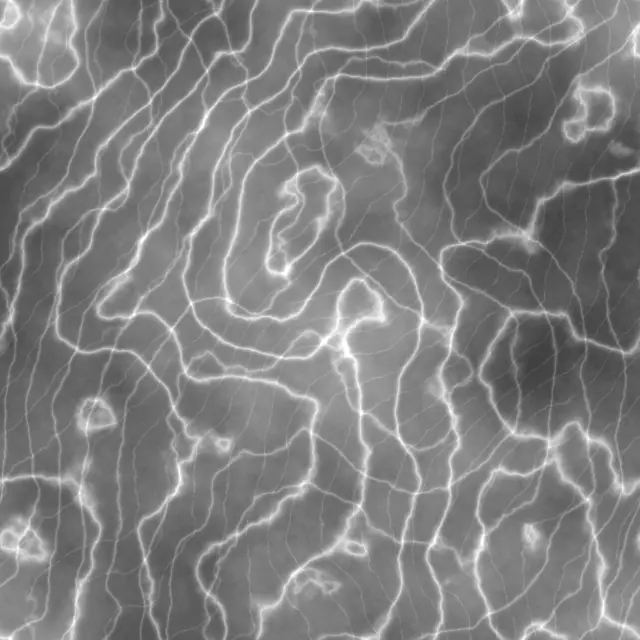
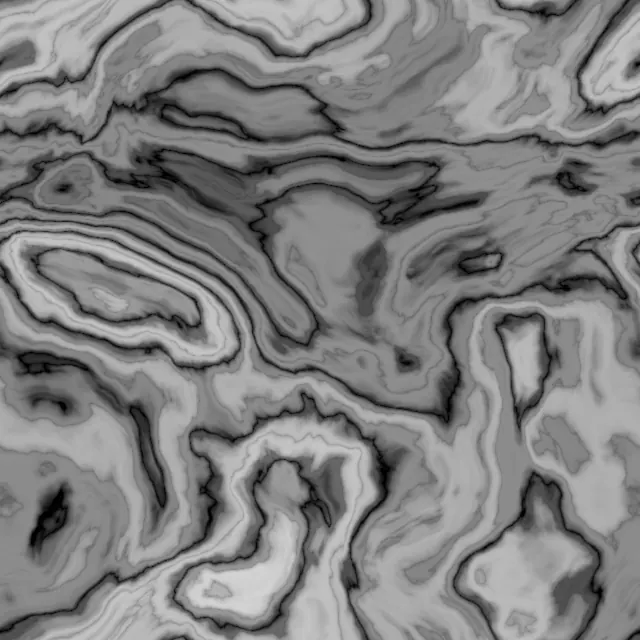
style(kcare): 남색 섹션 결을 마블링 대리석으로 교체 (연하게)
레퍼런스로 받은 마블링(물감이 접히듯 흐르는 결)은 이전 대리석과 생성
원리가 다르다. 이전 것은 띠를 살짝 일그러뜨려 만든 가는 맥이었고,
마블링은 좌표 자체를 접어야 나온다.

도메인 워핑 — 좌표를 부드러운 노이즈로 밀어서 장(field)을 접는다.
한 번이면 밋밋하고 세 번 넘으면 뭉개져 얼룩이 되므로 두 번 접는다.

접힌 장을 그대로 쓰니 중간 회색이 넓게 깔려 연기처럼 보였다. |sin| 을
1보다 작은 지수로 눌러 "대부분 밝고 영점 부근만 가늘게 어두운" 선으로
바꾸니 맥이 됐다. 처음엔 진동수를 4.5/11 로 잡아 맥이 너무 촘촘해
여백이 없었고, 2.4/6.2 로 낮춰 소용돌이가 보이게 했다.

평균을 128 로 되돌리는 처리를 넣었다. 흰 바탕이 넓은 그림을 그대로
soft-light 로 얹으면 남색 섹션이 통째로 밝아진다 — 구조는 두고 평균만 옮긴다.

이음매 검사도 고쳤다. 내부 기준값을 한 줄만 재고 있었는데 우연히 잔잔한
줄에 걸리면 가장자리가 나빠 보인다. 여러 줄의 중앙값과 비교하도록 바꿨다.
결과 4.28 대 4.47 · 6.07 대 5.30 으로 통과.

타일 800px · opacity .20 (요청대로 연하게). 마블링은 소용돌이가 크게
흘러야 돌로 읽혀서 이전 대리석(640px)보다 키웠다.

용량: marble.webp 28KB

대비 실측 (글자가 실제로 찍히는 자리만):
  데스크톱 경계 6.38:1 · 마무리 8.27:1
  모바일   경계 6.76:1 · 마무리 8.19:1   전부 AA(4.5) 이상, 미달 0건
  360~1536px 가로 넘침 0px

참고 — 받은 레퍼런스는 워터마크가 있는 유료 스톡 이미지라 파일 자체는
쓰지 않았다. 같은 결을 절차적으로 생성했다.

Claude-Session: https://claude.ai/code/session_017Rgr87D22dWCvzKhXZsY8M

diff --git a/kcare-app/styles/globals.css b/kcare-app/styles/globals.css
@@ -450,20 +450,21 @@
    과부하다 — 디코딩이 계속 돌고 파일도 400KB 씩 붙는다.
    대신 CSS 패턴으로 결만 준다. 추가 파일 0바이트, 디코딩 0.
 
-   무엇을 그리는가: 대리석 결 (public/bg/marble.webp · 23KB).
+   무엇을 그리는가: 마블링 대리석 결 (public/bg/marble.webp · 28KB).
    처음에는 점 격자를 썼는데, 규칙적인 격자라 반투명 카드 밑으로 비칠 때
    줄이 어긋난 것처럼 보였다. 불규칙한 결은 카드 밑으로 비쳐도
    "돌 위에 반투명 판을 올린" 것으로 읽혀서 그 문제가 없다.
    가죽 그레인 판도 만들어 뒀다 (public/bg/leather.webp) — url 만 바꾸면
    교체된다. 다만 결 굵기가 달라 background-size 도 같이 조정해야 한다
-   (가죽 320px/.38 · 대리석 640px/.21).
+   (가죽 320px/.38 · 대리석 800px/.20).
 
    텍스처는 흑백이고, 남색 바탕에 soft-light 로 얹어 남색의 명도만
    오르내리게 한다 — 색상은 남색 그대로다.
 
-   640px 타일을 640px 그대로 깐다 — 대리석은 맥이 길게 흘러야 돌로 읽혀서
-   가죽 그레인처럼 줄이면 잔금처럼 보인다. 타일은 상하좌우가 이어지도록
-   만들었으므로 background-size 를 바꿔도 이음매는 안 생긴다.
+   640px 타일을 800px 로 키워 깐다 — 마블링은 소용돌이가 크게 흘러야
+   돌로 읽혀서, 가죽 그레인처럼 줄이면 잔금처럼 보인다. 더 키우면 결은
+   시원해지지만 넓은 화면에서 타일 반복이 눈에 띄기 시작한다.
+   타일은 상하좌우가 이어지므로 background-size 를 바꿔도 이음매는 안 생긴다.
 
    결만 있으면 평평해 보이므로 좌상단에서 들어오는 옅은 골드 빛을 겹쳐
    깊이를 준다. 아래쪽은 살짝 눌러 글자 대비를 지킨다.                      */
@@ -475,8 +476,8 @@
   inset: 0;
   z-index: 0;
   background-image: url("/bg/marble.webp");
-  background-size: 640px 640px;
-  opacity: .21;
+  background-size: 800px 800px;
+  opacity: .20;
   mix-blend-mode: soft-light;
 }
 .sec-navy::after {

diff --git a/kcare-app/scripts/gen-marble.py b/kcare-app/scripts/gen-marble.py
@@ -1,30 +1,35 @@
 #!/usr/bin/env python3
-"""남색 섹션 배경용 대리석 텍스처 생성기 → public/bg/marble.webp
+"""남색 섹션 배경용 마블링 대리석 텍스처 생성기 → public/bg/marble.webp
 
     pip install numpy pillow
     python3 scripts/gen-marble.py          # kcare-app 디렉터리에서
 
 만드는 것: 상하좌우가 이어지는(= 이음매 없이 반복되는) 640px 흑백 타일.
-CSS 는 이것을 640px 그대로 깔고 남색 바탕에 soft-light 로 얹는다
+CSS 는 이것을 800px 로 키워 깔고 남색 바탕에 soft-light 로 얹는다
 (styles/globals.css 의 .sec-navy 참고).
 
-대리석 맥을 만드는 원리: 띠(sin)를 매끄러운 노이즈로 일그러뜨린 뒤
-영점 부근만 남기면 구불구불한 선이 된다. 두 가지가 핵심이다.
+핵심은 도메인 워핑이다. 좌표 자체를 부드러운 노이즈로 밀어서 장(field)을
+접으면, 물감을 물 위에서 휘저은 것 같은 소용돌이가 나온다. 한 번 접으면
+밋밋하고 세 번 넘어가면 뭉개져서 얼룩이 되므로 두 번 접는다.
 
-  · 왜곡 노이즈가 매끄러워야 한다 (fbm 의 beta). beta 가 낮아 고주파가
-    남으면 맥 윤곽이 잘게 떨려 서리처럼 부슬부슬해진다. 반대로 너무 높이면
-    맥이 나란해져 등고선처럼 보인다. 4.2~4.6 이 흐르는 구간이다.
-  · 왜곡 진폭(amp)이 크면 띠가 잘게 부서져 화강암 얼룩이 된다. 3~4 라디안
-    안팎으로 누르고, 대신 띠 개수(kx·ky)를 늘려 맥을 촘촘하게 한다.
+접힌 장을 그대로 쓰면 중간 회색이 넓게 깔려 연기처럼 보인다. 그래서
+|sin| 을 1보다 작은 지수로 눌러 "대부분 밝고 영점 부근만 가늘게 어두운"
+선을 만든다 — 이게 맥이다. 지수를 키우면 맥이 굵어지고, 진동수(k)를
+키우면 촘촘해진다. k 가 크면 여백이 사라져 답답해진다.
+
+마지막에 평균을 128 로 되돌리는 이유: 흰 바탕이 넓은 그림을 그대로
+soft-light 로 얹으면 남색 섹션이 통째로 밝아진다. 구조는 유지하되 평균만
+가운데로 옮겨 남색을 지킨다.
 
 이음매가 없어야 하는 이유: background-repeat 로 반복해 까는데 가장자리가
 안 맞으면 화면에 격자 줄이 보인다. 그래서
-  · 띠의 kx·ky 를 정수로 잡아 x·y 양쪽으로 주기를 맞추고
-  · 일그러뜨리는 노이즈는 FFT 로 만든다 (주기성이 수학적으로 보장된다)
+  · 노이즈는 FFT 로 만들고 (주기성이 수학적으로 보장된다)
+  · 워핑 후 표본 추출은 감아서(wrap) 한다 — 좌표가 타일 밖으로 나가도
+    반대편에서 이어받는다
   · 마지막 블러도 가장자리를 감아서 건다 (PIL 기본 블러는 가장자리를
     복제 처리해서, 그냥 쓰면 어렵게 맞춘 주기성이 여기서 깨진다)
-스크립트 끝에서 가장자리 차이를 내부 인접 화소 차이와 비교해 검증한다.
-가장자리 ≈ 내부 여야 통과다.
+스크립트 끝에서 가장자리 차이를 내부 인접 화소 차이의 중앙값과 비교해
+검증한다. 가장자리 ≈ 내부 여야 통과다.
 """
 
 import numpy as np, os
@@ -34,7 +39,7 @@ N = 640
 def norm(a): return (a - a.min()) / (np.ptp(a) + 1e-9)
 
 def fbm(n, beta, seed):
-    """FFT 로 만든 1/f 노이즈 — 주기성이 보장돼 가장자리가 반드시 이어진다."""
+    """FFT 로 만든 1/f 노이즈 — 주기성이 보장돼 가장자리가 이어진다."""
     r = np.random.default_rng(seed)
     F = np.fft.fft2(r.normal(size=(n, n)))
     fy = np.fft.fftfreq(n)[:, None]; fx = np.fft.fftfreq(n)[None, :]
@@ -42,53 +47,68 @@ def fbm(n, beta, seed):
     a = np.real(np.fft.ifft2(F / f ** (beta / 2)))
     return (a - a.mean()) / (a.std() + 1e-9)
 
+def sample_wrap(field, X, Y):
+    """감아서(wrap) 겹선형 보간 — 좌표가 타일 밖으로 나가도 반대편에서 이어받아
+       도메인 워핑을 해도 타일 주기성이 유지된다."""
+    x0 = np.floor(X).astype(np.int64); y0 = np.floor(Y).astype(np.int64)
+    fx = X - x0; fy = Y - y0
+    x0 %= N; y0 %= N; x1 = (x0 + 1) % N; y1 = (y0 + 1) % N
+    return (field[y0, x0] * (1 - fx) * (1 - fy) + field[y0, x1] * fx * (1 - fy)
+          + field[y1, x0] * (1 - fx) * fy + field[y1, x1] * fx * fy)
+
 ys, xs = np.mgrid[0:N, 0:N].astype(float)
 
-def veins(kx, ky, amp, power, beta, seed):
-    """대리석 맥 — 띠(sin)를 노이즈로 일그러뜨린 뒤 영점 부근만 남긴다.
-       kx·ky 가 정수라 x·y 양쪽으로 주기가 맞고, 일그러뜨리는 노이즈도
-       주기적이라 타일 가장자리가 이어진다."""
-    w = fbm(N, beta, seed) * amp
-    t = 2 * np.pi * (kx * xs + ky * ys) / N + w
-    return (1 - np.abs(np.sin(t))) ** power
+# ── 도메인 워핑 — 마블링의 핵심.
+# 좌표 자체를 부드러운 노이즈로 밀어서 장(field)을 접는다. 두 번 접으면
+# 물감이 물 위에서 휘저어진 것 같은 소용돌이가 나온다 (한 번이면 밋밋하고,
+# 세 번 넘어가면 뭉개져서 얼룩이 된다).
+X, Y = xs.copy(), ys.copy()
+for i, amp in enumerate((95.0, 48.0)):
+    X = X + amp * fbm(N, 4.8, 101 + i * 7)
+    Y = Y + amp * fbm(N, 4.8, 211 + i * 7)
 
-# 굵은 맥 하나 + 가는 맥 두 갈래 (방향을 달리해 갈라지는 느낌)
-# 왜곡 진폭(amp)이 크면 띠가 잘게 부서져 맥이 아니라 화강암 얼룩이 된다.
-# 2 라디안 안팎으로 눌러야 맥이 길게 이어진다. 대신 띠 개수(kx·ky)를 늘린다.
-# kx:ky 를 대각으로 잡아 맥이 한 방향으로 흐르게 한다 — 실제 대리석의 결이다.
-# beta 가 낮으면(=노이즈에 고주파가 남으면) 맥 윤곽이 잘게 떨려 서리처럼
-# 부슬부슬해진다. 4.6 안팎이 매끄럽게 흐르는 지점이고, 그보다 높이면
-# 맥이 나란해져서 등고선처럼 보인다. 값을 바꿀 때 이 구간 안에서 움직일 것.
-v_main = veins(kx=3, ky=1, amp=3.2, power=5,  beta=4.6, seed=7)
-v_sub  = veins(kx=5, ky=2, amp=3.6, power=9,  beta=4.4, seed=19)
-v_hair = veins(kx=9, ky=4, amp=4.0, power=18, beta=4.2, seed=31)
+# 접힌 좌표에서 완만한 장을 읽으면 그 자체가 흐름이 된다
+flow = norm(sample_wrap(fbm(N, 4.2, 331), X, Y))
 
-body  = norm(fbm(N, 3.6, 41))     # 돌의 넓은 명암
-cloud = norm(fbm(N, 2.6, 53))     # 중간 크기 구름 무늬
-dust  = norm(fbm(N, 1.6, 67))     # 미세 입자 — 많으면 화강암처럼 보인다
+# ① 맥 — |sin| 을 1보다 작은 지수로 눌러 "대부분 밝고 영점 부근만 가늘게 어두운"
+# 선을 만든다. 지수를 키우면 선이 굵어지고, 진동수(k)를 키우면 촘촘해진다.
+# 굵은 맥 하나와 가는 맥 하나를 곱해 굵기에 변화를 준다.
+def lines(k, p):
+    return np.abs(np.sin(2 * np.pi * k * flow)) ** p
+veins = lines(2.4, 0.34) * (0.62 + 0.38 * lines(6.2, 0.26))
 
-tex = (0.30 * norm(v_main) + 0.18 * norm(v_sub) + 0.10 * norm(v_hair)
-       + 0.28 * body + 0.10 * cloud + 0.04 * dust)
+# ② 넓은 명암 — 흐름을 따라 어떤 구역은 조금 어둡게
+broad = 0.5 + 0.5 * np.tanh((flow - 0.5) * 3.2)
+
+# ③ 잔 결 — 결을 따라 난 미세한 줄
+striae = norm(sample_wrap(fbm(N, 2.0, 449), X, Y))
+
+# 흰 바탕이 넓고 그 위를 맥이 지나가는 구조. 마지막에 평균을 가운데로
+# 되돌리므로(아래) 흰 바탕은 중간 회색이 되고 맥만 어둡게 남는다 —
+# 남색 위에 soft-light 로 얹었을 때 남색이 통째로 밝아지지 않게 하려는 것이다.
+tex = veins * (0.66 + 0.34 * broad) * (0.95 + 0.05 * striae)
 tex = norm(tex)
 
 def wrap_blur(arr, radius):
-    """가장자리를 감아서 블러한다. PIL 의 기본 블러는 가장자리를 복제해서
-       처리하기 때문에 그대로 쓰면 어렵게 맞춘 타일 주기성이 여기서 깨진다."""
+    """가장자리를 감아서 블러 — PIL 기본 블러는 가장자리를 복제해 주기성을 깬다."""
     pad = int(radius * 4) + 2
     big = np.pad(arr, pad, mode="wrap")
     out = Image.fromarray(np.clip(big, 0, 255).astype(np.uint8), "L").filter(
         ImageFilter.GaussianBlur(radius))
     return np.asarray(out, dtype=float)[pad:-pad, pad:-pad]
 
-img = Image.fromarray(np.clip(wrap_blur(tex * 255, 0.5), 0, 255).astype(np.uint8), "L")
-a = np.asarray(img, dtype=float)
-a = 128 + (a - a.mean()) * 0.95
+a = wrap_blur(tex * 255, 0.6)
+a = 128 + (a - a.mean()) * 1.0
 img = Image.fromarray(np.clip(a, 0, 255).astype(np.uint8), "L")
 pass
 
 b = np.asarray(img, dtype=float)
-print("이음매 검사 (가장자리 ≈ 내부 여야 통과):")
-print(f"  좌↔우 {np.abs(b[:,0]-b[:,-1]).mean():.2f}  내부 {np.abs(b[:,N//2]-b[:,N//2+1]).mean():.2f}")
-print(f"  상↔하 {np.abs(b[0,:]-b[-1,:]).mean():.2f}  내부 {np.abs(b[N//2,:]-b[N//2+1,:]).mean():.2f}")
-img.save("public/bg/marble.webp", "WEBP", quality=74, method=6)
+# 이음매 검사 — 내부 기준값은 한 줄만 보면 우연히 잔잔한 줄에 걸릴 수 있어
+# 여러 줄의 중앙값과 비교한다.
+col_in = np.median([np.abs(b[:, i] - b[:, i + 1]).mean() for i in range(0, N - 1, 17)])
+row_in = np.median([np.abs(b[i, :] - b[i + 1, :]).mean() for i in range(0, N - 1, 17)])
+print("이음매 검사 (가장자리 ≈ 내부 중앙값 이면 통과):")
+print(f"  좌↔우 {np.abs(b[:,0]-b[:,-1]).mean():.2f}  내부중앙값 {col_in:.2f}")
+print(f"  상↔하 {np.abs(b[0,:]-b[-1,:]).mean():.2f}  내부중앙값 {row_in:.2f}")
+img.save("public/bg/marble.webp", "WEBP", quality=78, method=6)
 print(f"  public/bg/marble.webp: {os.path.getsize('public/bg/marble.webp')/1024:.0f} KB")

diff --git a/kcare-app/public/bg/README.md b/kcare-app/public/bg/README.md
@@ -7,7 +7,7 @@
 
 | 파일 | 크기 | 상태 |
 |---|---|---|
-| `marble.webp` | 23KB | **사용 중** — 대리석 결 |
+| `marble.webp` | 28KB | **사용 중** — 마블링 대리석 결 |
 | `leather.webp` | 65KB | 대안 — 가죽 그레인 |
 
 둘 다 640px 흑백 타일이고 상하좌우가 이음매 없이 이어집니다.
@@ -19,10 +19,10 @@
 
 | | `background-image` | `background-size` | `opacity` |
 |---|---|---|---|
-| 대리석 (지금) | `url("/bg/marble.webp")` | `640px 640px` | `.21` |
+| 마블링 대리석 (지금) | `url("/bg/marble.webp")` | `800px 800px` | `.20` |
 | 가죽 그레인 | `url("/bg/leather.webp")` | `320px 320px` | `.38` |
 
-대리석을 320px 로 줄이면 맥이 잔금처럼 보이고, 가죽을 640px 로 키우면
+대리석을 320px 로 줄이면 소용돌이가 잔금처럼 보이고, 가죽을 800px 로 키우면
 알갱이가 얼룩처럼 보입니다. 짝을 지어 바꾸세요.
 
 ## 왜 영상이 아니라 텍스처인가
@@ -59,11 +59,15 @@ python3 scripts/gen-leather.py
 두 스크립트 모두 끝에서 가장자리 차이를 내부 인접 화소 차이와 비교해
 검증합니다 — **가장자리 ≈ 내부**여야 통과입니다.
 
-대리석에서 특히 조심할 값 (자세한 것은 `scripts/gen-marble.py` 주석):
+마블링 대리석에서 특히 조심할 값 (자세한 것은 `scripts/gen-marble.py` 주석):
 
-- 왜곡 노이즈의 `beta` — 낮으면 맥이 서리처럼 부슬부슬해지고, 높으면
-  등고선처럼 나란해진다. **4.2~4.6** 이 흐르는 구간
-- 왜곡 진폭 `amp` — 크면 띠가 부서져 화강암 얼룩이 된다. **3~4 라디안**
+- **도메인 워핑 횟수** — 좌표를 부드러운 노이즈로 밀어 장을 접는 것이 핵심.
+  한 번이면 밋밋하고 세 번 넘으면 뭉개져 얼룩이 된다. **두 번**이 소용돌이가
+  나오는 지점
+- **맥의 진동수 `k`** — 크면 맥이 촘촘해져 여백이 사라지고 답답해진다.
+  지금은 굵은 맥 2.4 · 가는 맥 6.2
+- **마지막에 평균을 128 로 되돌린다** — 흰 바탕이 넓은 그림을 그대로
+  soft-light 로 얹으면 남색 섹션이 통째로 밝아진다. 구조는 두고 평균만 옮긴다
 
 ## 대비 실측
 
@@ -71,10 +75,10 @@ python3 scripts/gen-leather.py
 
 | | 최저 대비 | 판정 |
 |---|---|---|
-| 데스크톱 1280 · 경계 섹션 | 5.91:1 | AA 이상 |
-| 데스크톱 1280 · 마무리 | 7.68:1 | AAA |
-| 모바일 390 · 경계 섹션 | 6.37:1 | AA 이상 |
-| 모바일 390 · 마무리 | 7.65:1 | AAA |
+| 데스크톱 1280 · 경계 섹션 | 6.38:1 | AA 이상 |
+| 데스크톱 1280 · 마무리 | 8.27:1 | AAA |
+| 모바일 390 · 경계 섹션 | 6.76:1 | AA 이상 |
+| 모바일 390 · 마무리 | 8.19:1 | AAA |
 
 `opacity` 를 올리거나 `background-size` 를 키우면 이 값이 내려갑니다.
 만질 때 다시 재세요 (기준은 작은 글자 4.5:1 · 큰 글자 3.0:1).
